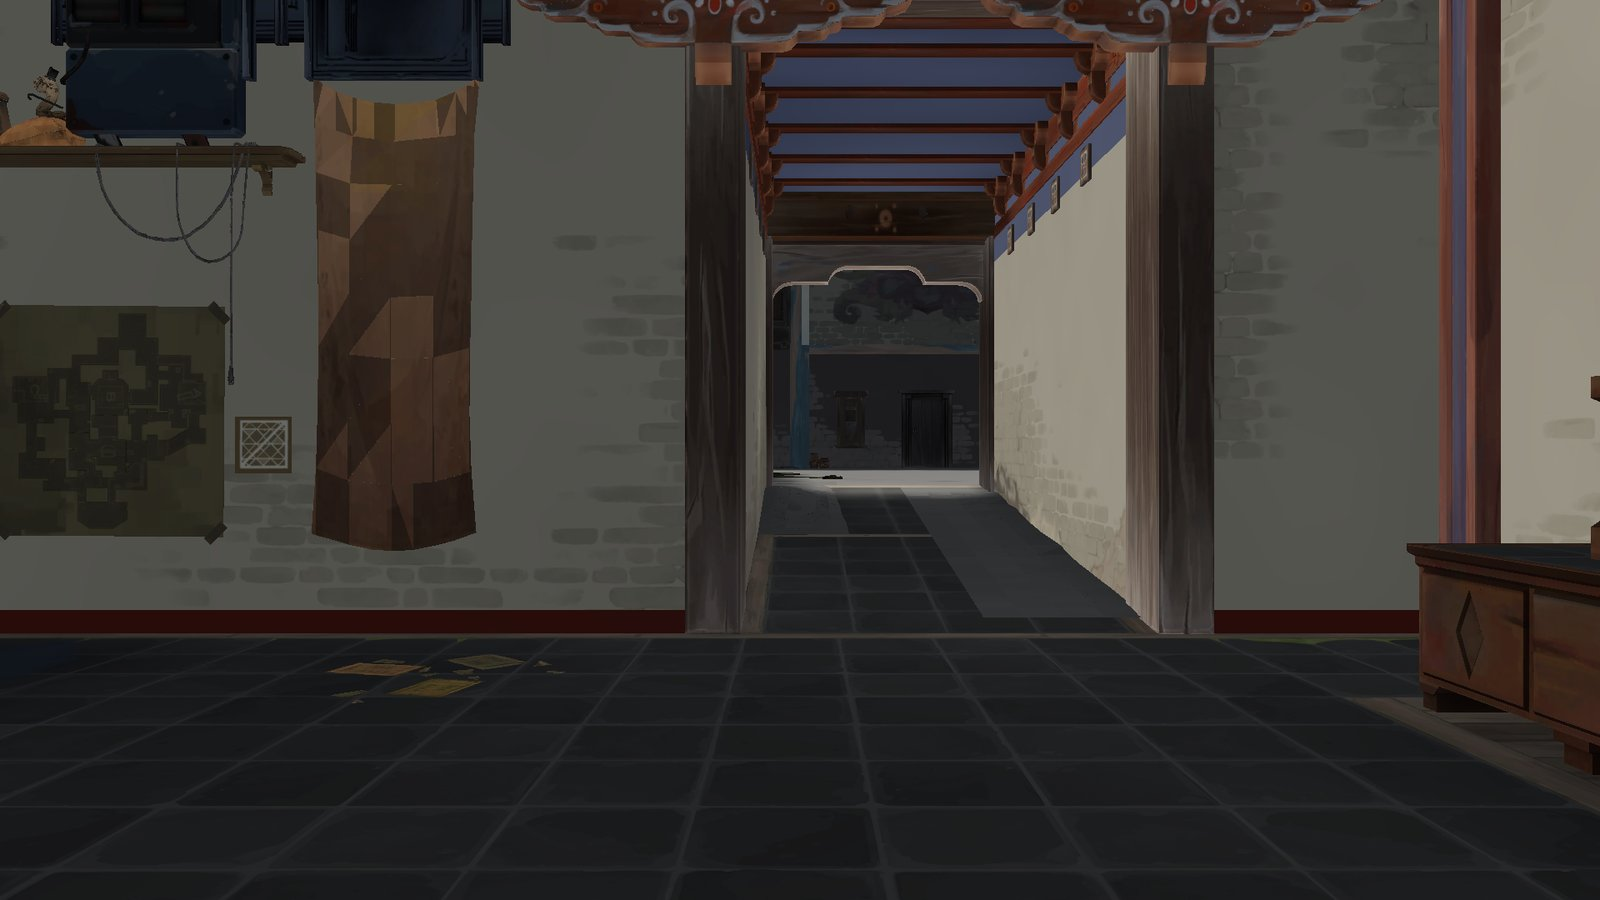
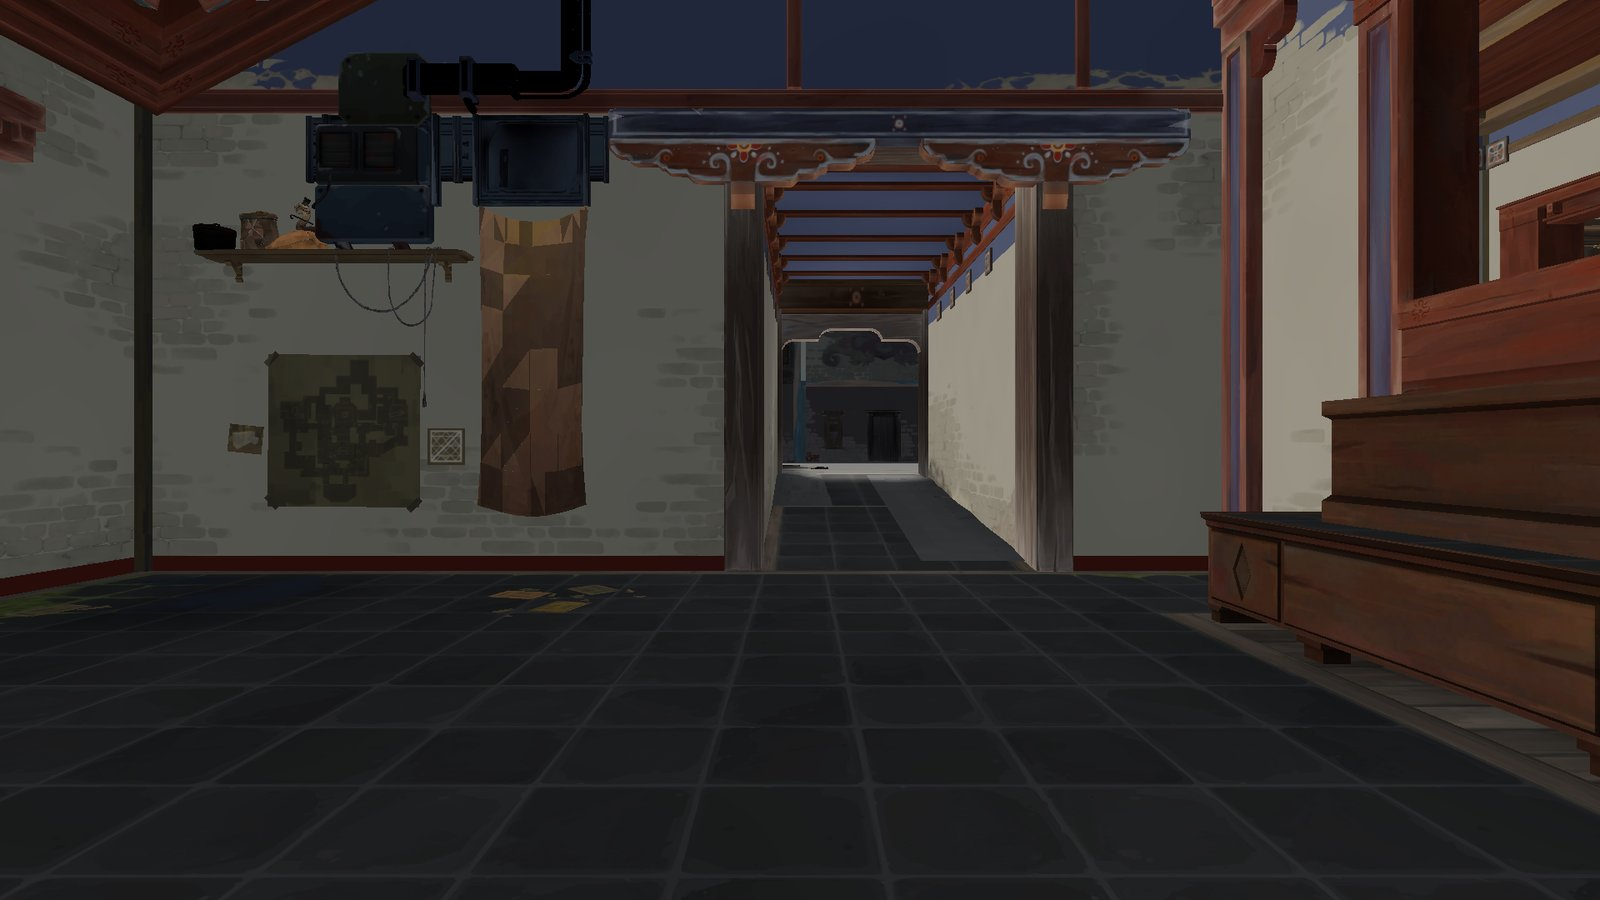
Make 90 degrees the default field of view
- Re-render the Haven screenshots
- Re-measure what the wider view costs Haven

diff --git a/src/engine/Renderer.java b/src/engine/Renderer.java
@@ -17,7 +17,19 @@ import java.util.stream.IntStream;
  * column that are still empty (the interval list), and the column stops once every row is filled.
  */
 final class Renderer {
-    static final double DEFAULT_FOV = Math.toDegrees(2 * Math.atan(0.66));   // PL = 0.66, about 67 degrees
+    /**
+     * 90 degrees across, which is a camera plane exactly one metre wide at one metre.
+     *
+     * It was 67 - a plane half-width of 0.66, which is what every raycasting tutorial uses because
+     * Wolfenstein did, on a 320x200 screen that was nearly square in pixels. On a 16:9 window 67
+     * degrees reads as a telescope: walking feels slow because the walls go by at the edges of a
+     * view that has no edges in it, and a doorway a step away fills the frame. 90 is what a
+     * first-person game has used since Quake, and what {@code --fov} moves away from rather than
+     * towards. It costs almost nothing level (3.3 ms against 3.6 on school at 720p, on the card)
+     * and nearly doubles a frame tilted all the way up, because what a wider view adds is overscan
+     * for the pitch warp to resample: see the table in docs/ENGINEERING.md.
+     */
+    static final double DEFAULT_FOV = 90;
     static final double NEAR = 1e-3;
     static final double MAX_DIST = 80;
     static final int MAX_STOREYS = 8;      // how many storeys can stack at one (x, y)

diff --git a/docs/ENGINEERING.md b/docs/ENGINEERING.md
@@ -177,6 +177,39 @@ the window - past that, extra rays stop being new detail and become anti-aliasin
 
 ## Where the frame time actually goes
 
+**Every timing in this document was taken at a 67-degree field of view, which was the default until
+2026-09-26.** It is 90 now, and the difference is not uniform. On school a level frame is within a
+tenth of what it was (1280x720, card: 3.30 ms against 3.56, and 3.42 when it was measured again a
+day later) and a frame tilted 45 degrees is nearly twice it (8.60 against 16.65 ms, 116 fps against
+60), because what a wider view adds is overscan for the pitch warp - 2,884 rays against 4,142 - and
+nothing at all level.
+
+**On Haven the same change is four times over**, and that is the number to know before widening
+anything again. Re-measured cold on 2026-09-27 - the shipped map, its bake, `--hdr`, the card,
+1920x1080, rested runs, medians of run medians:
+
+| | level | pitch 45 |
+|---|---|---|
+| 67 degrees | 37.1 ms (27 fps) | 59.6 ms (17 fps) |
+| 90 degrees | 46.4 ms (22 fps), runs 42.5-52.4 | 237 ms (4 fps), runs 197-333 |
+
+The 67-degree row reproduces the numbers taken on 2026-09-21 (36.9 and 57.0), which is what says the
+90-degree row is the renderer and not the afternoon. `WORK` says where it goes: tilted, 67 degrees
+walks 4,350 rays over 6.5 cells each testing 55.8 shapes, and 90 degrees walks 6,212 over 14.2
+testing 128.3 - 243,000 shape tests a frame against 797,000. School's frame is shading, which a
+wider view barely touches; Haven's is the ray half, and overscan lands squarely on it. These are
+costs at a fixed render size: with the frame-time controller on, a tilted view on Haven comes back
+as a coarser picture rather than as 4 fps.
+
+Two things that measuring this taught, both worth more than the numbers. **Give Haven `-Xmx8g`, not
+`-Xmx12g`**: its live heap after a collection is 5.3 GB, and 12 on a 16 GB machine lets the JVM sit
+at 6-10 GB resident while the rest of the system swaps - the first attempt at this table had 2 GB of
+swap in use, one frame of 55 seconds and a pair of runs that took 47 minutes. And **the CPU rows
+below have still not been re-measured**: a sustained CPU benchmark throttles this machine far enough
+that a 67-degree control taken after an hour of runs read 29.2 ms where the table says 20.8, and one
+pair came out *faster* at 90 than at 67. Ratios measured back to back in one sitting are what
+carries; the absolute numbers are a record of a particular day.
+
 `--bench` times the raycaster only. With both windows open the loop also has to blit the main view
 and redraw the ray view, and those dominate. Measured in the real windowed loop, 640x360, both
 windows open:
@@ -518,13 +551,21 @@ may still narrow it with `"maxPitch"` when its author wants the view held down; 
 decision, and the loader clamps it at 60 degrees.
 
 Under both sits a hard ceiling that is about the machine and not about taste. The overscan grows
-as a tangent and runs away at 90 degrees less the vertical half-FOV - 69.6 degrees at the default
-field of view - so `Warp.fits` returns the furthest pitch whose upright image still fits a budget,
-and `Host` clamps to it every frame. The budget is **a multiple of a level frame (16), not a count
-of pixels**: the overscan a pitch needs is a fixed ratio of the frame at any render size, so a
-budget in pixels would let the camera tilt further on a small window than on a large one. As a
-multiple it stops at 55.1 degrees at 640x360, at 1280x720 and at 3840x2160 alike. It is worked out
-by asking `Warp.plan` itself rather than by a second copy of its formulas.
+as a tangent and runs away at 90 degrees less the vertical half-FOV - 60.6 degrees at the default
+90-degree field of view, and it was 69.6 when the default was 67 - so `Warp.fits` returns the
+furthest pitch whose upright image still fits a budget, and `Host` clamps to it every frame. The
+budget is **a multiple of a level frame (16), not a count of pixels**: the overscan a pitch needs is
+a fixed ratio of the frame at any render size, so a budget in pixels would let the camera tilt
+further on a small window than on a large one. As a multiple it stops at the same angle at 640x360,
+at 1280x720 and at 3840x2160 alike. It is worked out by asking `Warp.plan` itself rather than by a
+second copy of its formulas.
+
+**Widening the field of view eats into that ceiling, and 90 degrees leaves little of it.** The
+budget allows 48.5 degrees of pitch at 90 degrees across, where it allowed 55.1 at 67, and
+`MAX_PITCH` is 45: the margin between what the camera may do and what the machine will hold has
+gone from ten degrees to three and a half. What a tilt costs went up with it - at 720p, 45 degrees
+asks for a 4142x2111 buffer, 9.5 level frames, against 2902x1680 and 5.3 before. Raising either
+number now means measuring the other.
 
 ### What looking up costs, and one thing that did not help
 
@@ -942,7 +983,9 @@ they were before the split.
 
 ## How it works
 
-1. **Camera**: `r = dir + plane * camX`, `PL = 0.66`, `F = (W/2)/PL`. r is deliberately not
+1. **Camera**: `r = dir + plane * camX`, `PL = 1.0` at the default 90-degree field of view
+   (`PL = tan(FOV/2)`; it was 0.66, which is 67 degrees and what every raycasting tutorial uses),
+   `F = (W/2)/PL`. r is deliberately not
    normalised, so the intersection parameter t *is* the perpendicular distance and there is no
    fisheye. -> `Renderer.Column.render`
 2. **Projection**: `rowZ(z, t) = hz - (z - eye) * F / t`, with `hz = H/2 + pitch` (y-shearing).

diff --git a/README.md b/README.md
@@ -92,7 +92,7 @@ engine.
 | `--fps N` | Frame-time target for dynamic resolution; `0` disables it (default 60) |
 | `--ss N` | Supersampling factor, 1-8 (default 1) |
 | `--feet M` | Starting floor height in metres, e.g. to start on an upper storey |
-| `--fov N` | Field of view in degrees, 30-120 (default 67). Applies to the window, `--shot`, `--shots` and `--bench` alike |
+| `--fov N` | Field of view in degrees, 30-120 (default 90). Applies to the window, `--shot`, `--shots` and `--bench` alike |
 | `--play` | The game with nothing on the screen but the game: no overlay, no minimap, no toggles, no flying |
 | `--shade card\|cpu` | Where the frame is shaded. The card by default and three to four times faster; the CPU by default for `--verify`, `--shot` and `--shots`. `--gpu` and `--cpu` are the old spellings |
 | `--hdr` | Shade in light rather than in sRGB numbers, and roll the highlights off filmically |
@@ -202,7 +202,7 @@ because it is about 290 MB:
 ```bash
 git clone --recursive https://github.com/Arstoienn/ColumnRay.git   # or, in an existing clone:
 git submodule update --init maps/haven
-JAVA_OPTS=-Xmx12g ./run.sh maps/haven/haven.json --feet 3
+JAVA_OPTS=-Xmx8g ./run.sh maps/haven/haven.json --feet 3
 ```
 
 **Mid Doors**
